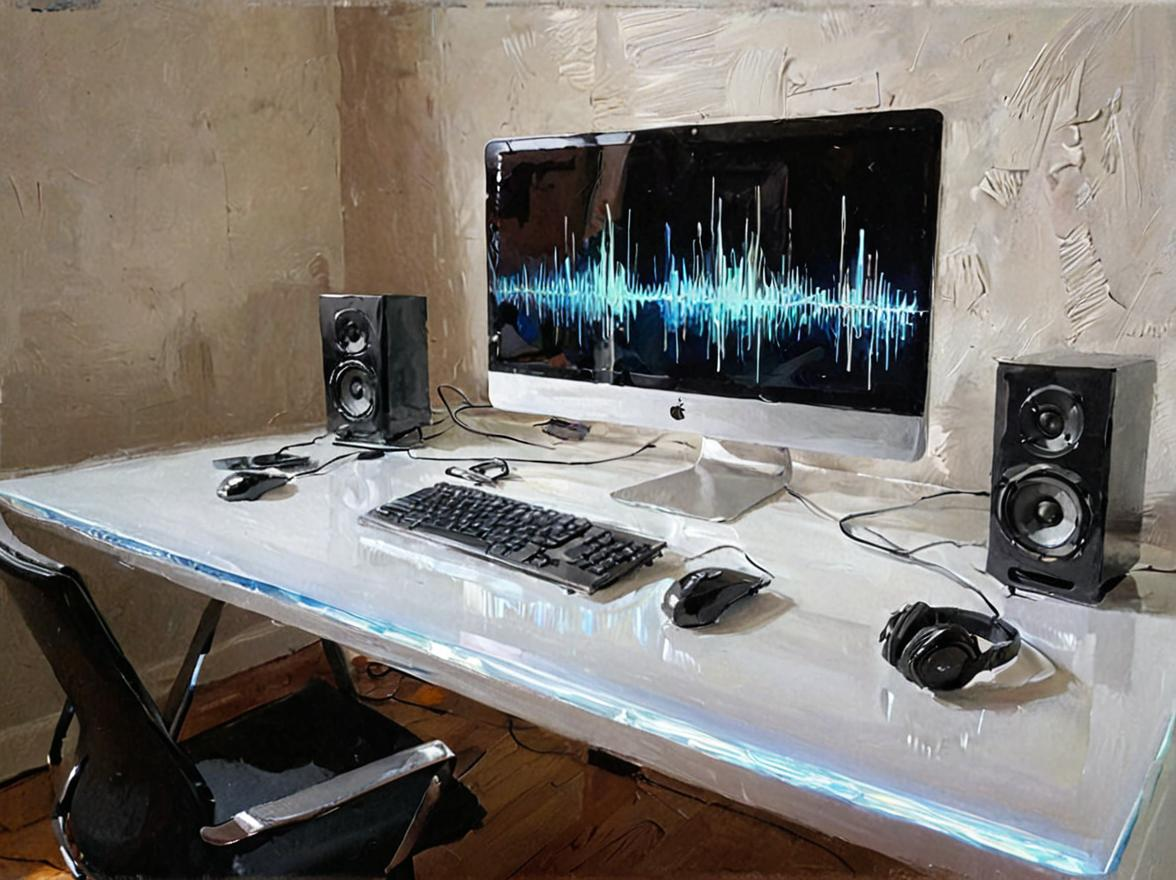
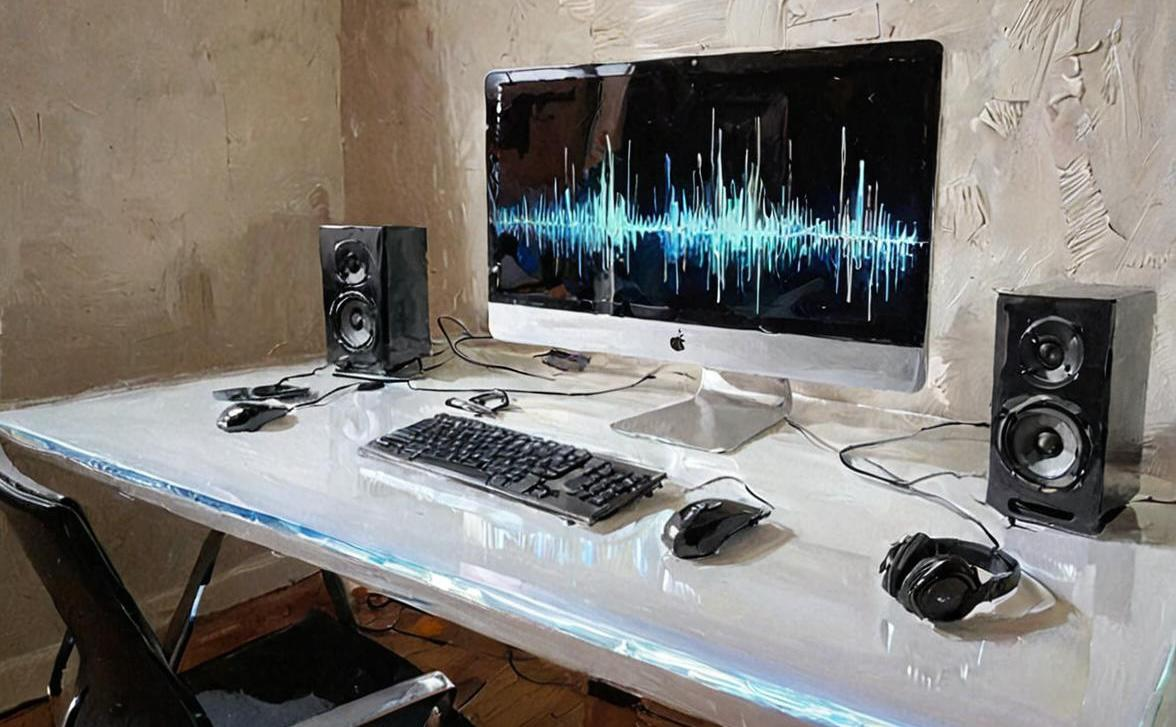
fix: finish the chaud -> chaudio rename and restore the new screenshot
- Rename the Composer package to aklump/chaudio and point the docs'
  github_url at the renamed repository.
- composer create-project now creates a chaudio/ folder, so update the
  install, engine, updating and migration paths from ~/opt/chaud to
  ~/opt/chaudio, and drop the note that the package is still named chaud.
- Put the new screenshot in knowledge/images/chaud.jpg, the source the
  bookbinder "copy images" step copies from. It had only been placed in
  the generated images/chaud.jpg, so the 0.0.13 release build overwrote
  it with the old image.

diff --git a/knowledge/pages/general/README.md b/knowledge/pages/general/README.md
@@ -11,17 +11,17 @@ tags: ''
 
 ## Summary
 
-On a Mac, moving from a headset call to speakerphone means two trips into Sound settings: one for the input, one for the output. **chaudio** (change audio; the project and package are still named `chaud`) lets you name those pairings once, give them short aliases, and switch with a single command. Each named option can set the input, the output, or both, adjust the output level, and run your own shell commands, for example pausing music when you pick up a call. It is a small PHP command-line app over existing macOS audio switchers, so the operating system still does the actual switching, and your configuration and device lookups are cached so each switch runs quickly.
+On a Mac, moving from a headset call to speakerphone means two trips into Sound settings: one for the input, one for the output. **chaudio** (change audio) lets you name those pairings once, give them short aliases, and switch with a single command. Each named option can set the input, the output, or both, adjust the output level, and run your own shell commands, for example pausing music when you pick up a call. It is a small PHP command-line app over existing macOS audio switchers, so the operating system still does the actual switching, and your configuration and device lookups are cached so each switch runs quickly.
 
 ## Quick Start
 
-Install into `~/opt/chaud`, add the default audio engine, and link the command onto your `$PATH` (this assumes `~/bin` is on it):
+Install into `~/opt/chaudio`, add the default audio engine, and link the command onto your `$PATH` (this assumes `~/bin` is on it):
 
 ```shell
 mkdir -p ~/opt && cd ~/opt
 {{ composer.create_project|raw }}
-cd chaud && npm install
-ln -s ~/opt/chaud/chaudio ~/bin/chaudio
+cd chaudio && npm install
+ln -s ~/opt/chaudio/chaudio ~/bin/chaudio
 ```
 
 Print the configuration file's path. The first run creates it from the defaults:
@@ -61,24 +61,24 @@ If the highlight does not move, run the switch again with `-v` (`chaudio s h -v`
 
 ## Installation
 
-chaudio is installed from its GitHub repository, <https://github.com/aklump/chaud>. In a terminal, change to where you want the app to live (the examples use `~/opt`), then install it with Composer:
+chaudio is installed from its GitHub repository, <https://github.com/aklump/chaudio>. In a terminal, change to where you want the app to live (the examples use `~/opt`), then install it with Composer:
 
 ```shell
 {{ composer.create_project|raw }}
 ```
 
-This creates a `chaud` folder (that is the package name). Link its `chaudio` script into a directory on your `$PATH`, such as `~/bin`:
+This creates a `chaudio` folder (that is the package name). Link its `chaudio` script into a directory on your `$PATH`, such as `~/bin`:
 
 ```shell
 cd ~/bin
-ln -s ~/opt/chaud/chaudio .
+ln -s ~/opt/chaudio/chaudio .
 ```
 
 ### Audio engine
 
 chaudio looks for an engine in the following order and uses the first one it finds. The order is fixed; no setting prefers a different engine when more than one is installed.
 
-1. [macos-audio-devices](https://github.com/karaggeorge/macos-audio-devices), the default, and the only engine that can set output levels or list your devices. It is declared in `package.json`, so run `npm install` (or `yarn install`) inside the `chaud` folder.
+1. [macos-audio-devices](https://github.com/karaggeorge/macos-audio-devices), the default, and the only engine that can set output levels or list your devices. It is declared in `package.json`, so run `npm install` (or `yarn install`) inside the `chaudio` folder.
 2. [switchaudio-osx](https://github.com/deweller/switchaudio-osx), when its `SwitchAudioSource` command is on your `$PATH`.
 3. [SwitchAudio](https://www.macscripter.net/t/switchaudio-a-command-line-tool-to-change-the-audio-input-and-output-device/75630/1), when it is installed as an executable at `~/bin/SwitchAudio`.
 
@@ -92,7 +92,7 @@ The keyword is `chauds`, not `chaudio switch`, on purpose: Alfred is for quick, 
 
 ### Updating
 
-Delete the `chaud` folder you installed earlier, then repeat the installation, including the audio engine. Your configuration lives in your home directory, so deleting the folder does not remove it.
+Delete the `chaudio` folder you installed earlier, then repeat the installation, including the audio engine. Your configuration lives in your home directory, so deleting the folder does not remove it.
 
 ## Configuration
 

diff --git a/knowledge/pages/general/CHANGELOG.md b/knowledge/pages/general/CHANGELOG.md
@@ -49,7 +49,7 @@ and this project adheres to [Semantic Versioning](https://semver.org/spec/v2.0.0
 #### Migrating from `chaud`
 
 1. Rename your config file: `mv ~/.chaud.json ~/.chaudio.json`. Its contents do not change. If you skip this step, `chaudio` installs the default config at `~/.chaudio.json` and your options will appear to be missing.
-2. Replace the symlink: `rm ~/bin/chaud && ln -s ~/opt/chaud/chaudio ~/bin/chaudio` (adjust the paths if you installed elsewhere).
+2. Replace the symlink: `rm ~/bin/chaud && ln -s ~/opt/chaudio/chaudio ~/bin/chaudio` (adjust the paths if you installed elsewhere).
 3. Re-import `Change Audio.alfredworkflow` in Alfred and delete the old workflow. It now runs `chaudio s`.
 4. Optional: keep the short name with a shell alias, e.g. `alias chaud='chaudio s'` in `~/.zshrc`.
 5. Optional cleanup: `rm -rf "${TMPDIR:-/tmp}/com.aklump.chaud"` removes the old cache. It is disposable and is rebuilt on first use.
